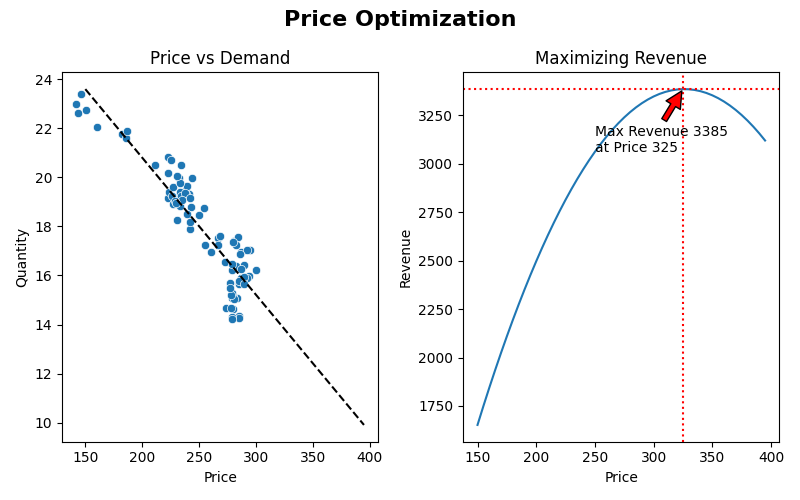
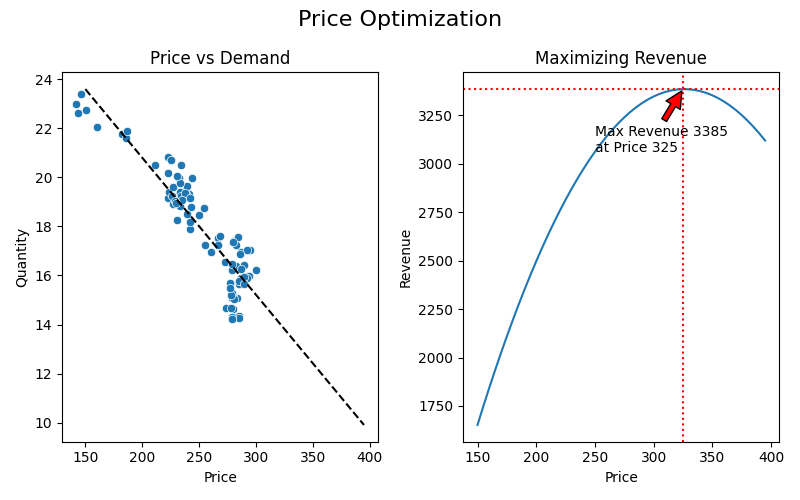
modified graph

Changed region(s): [[0.3438, 0.0, 0.6562, 0.06]]

diff --git a/Python/optimize_price.py b/Python/optimize_price.py
@@ -33,7 +33,7 @@ def optimize_price(df, price_range, cost):
         f"Maximum Revenue {round(max_value['Revenue'].values[0])} at Price {round(max_value['Price'].values[0])}")
 
     fig, axs = plt.subplots(1, 2, figsize=(8, 5))
-    fig.suptitle("Price Optimization", fontsize=16, fontweight='bold')
+    fig.suptitle("Price Optimization", fontsize=16)
 
     sns.scatterplot(ax=axs[0], data=df, x='Price', y='Quantity')
     axs[0].plot(price, quantity, c='black', linestyle='dashed')
